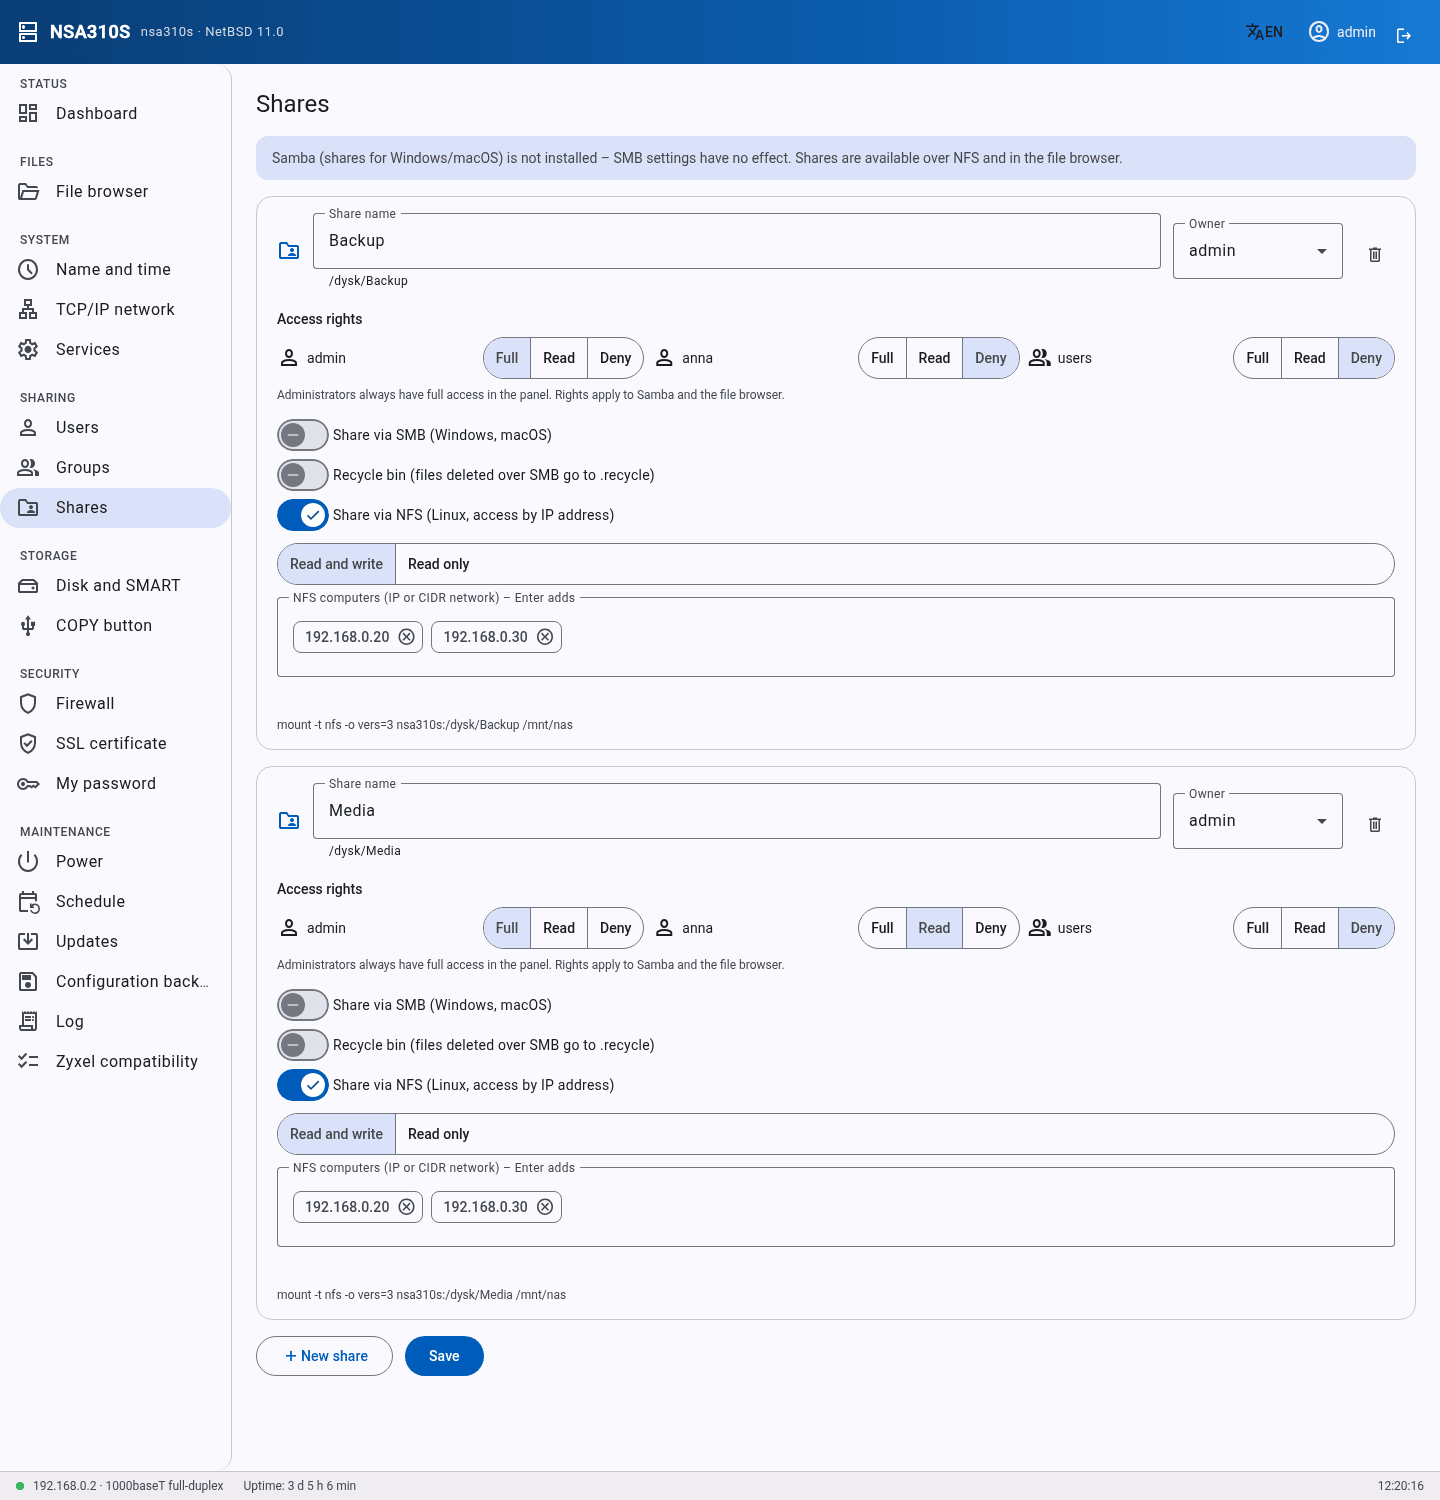
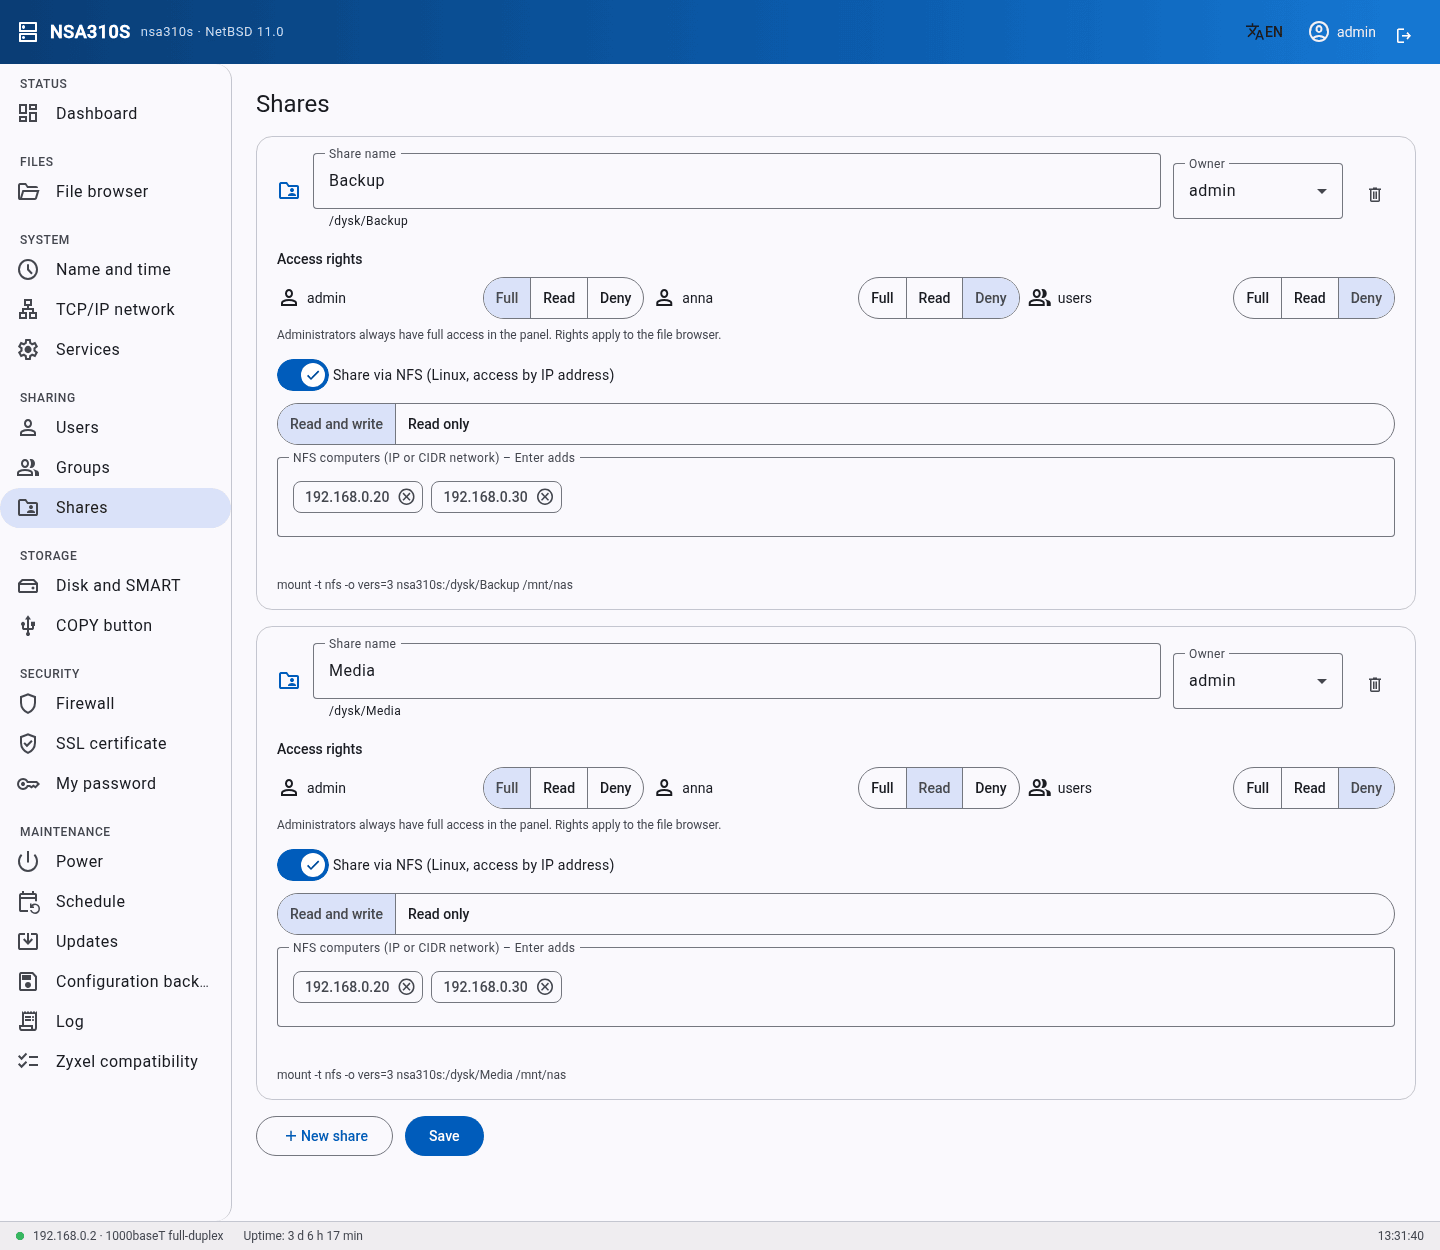
Remove Samba/SMB from the panel: no SMB or recycle-bin options on shares, no smbpasswd, no smb.conf, port 445 closed; robust panel restart in wdroz.sh
Prepared with Claude (Anthropic).

diff --git a/panel/frontend/src/app/i18n-en.ts b/panel/frontend/src/app/i18n-en.ts
@@ -69,7 +69,7 @@ export const EN: Record<string, string> = {
 
   // --- users and groups
   'Typ konta': 'Account type', 'Administrator': 'Administrator', 'Usuń konto': 'Delete account', 'Dodaj użytkownika': 'Add user',
-  'Hasło służy do logowania w panelu (przeglądarka plików) i do udziałów Samby. Administrator ma dostęp do całego panelu i wszystkich udziałów. SSH działa tylko z kluczem.': 'The password is used to log in to the panel (file browser) and to Samba shares. Administrators can access the whole panel and all shares. SSH works with keys only.',
+  'Hasło służy do logowania w panelu (przeglądarka plików). Administrator ma dostęp do całego panelu i wszystkich udziałów. SSH działa tylko z kluczem.': 'The password is used to log in to the panel (file browser). Administrators can access the whole panel and all shares. SSH works with keys only.',
   'Nowy użytkownik': 'New user', 'Nazwa użytkownika': 'User name',
   'Pierwsza litera, potem małe litery, cyfry, _ i -.': 'A letter first, then lowercase letters, digits, _ and -.',
   'Nowe hasło (puste = bez zmiany)': 'New password (empty = unchanged)',
@@ -82,12 +82,9 @@ export const EN: Record<string, string> = {
   'Usunąć grupę {0}?': 'Delete group {0}?',
 
   // --- shares
-  'Samba (udziały dla Windows/macOS) nie jest zainstalowana – ustawienia SMB nie działają. Udziały są dostępne przez NFS i w przeglądarce plików.': 'Samba (shares for Windows/macOS) is not installed – SMB settings have no effect. Shares are available over NFS and in the file browser.',
   'Nazwa udziału': 'Share name', 'Właściciel': 'Owner', 'Usuń udział (pliki zostają na dysku)': 'Delete share (files stay on the disk)',
   'Prawa dostępu': 'Access rights', 'Pełny': 'Full', 'Odczyt': 'Read', 'Brak': 'Deny',
-  'Administratorzy mają zawsze pełny dostęp w panelu. Prawa dotyczą Samby i przeglądarki plików.': 'Administrators always have full access in the panel. Rights apply to Samba and the file browser.',
-  'Udostępniaj przez SMB (Windows, macOS)': 'Share via SMB (Windows, macOS)',
-  'Kosz (usunięte przez SMB pliki trafiają do .recycle)': 'Recycle bin (files deleted over SMB go to .recycle)',
+  'Administratorzy mają zawsze pełny dostęp w panelu. Prawa dotyczą przeglądarki plików.': 'Administrators always have full access in the panel. Rights apply to the file browser.',
   'Udostępniaj przez NFS (Linux, dostęp po adresie IP)': 'Share via NFS (Linux, access by IP address)',
   'Odczyt i zapis': 'Read and write', 'Tylko odczyt': 'Read only',
   'Komputery NFS (IP albo sieć CIDR) – Enter dodaje': 'NFS computers (IP or CIDR network) – Enter adds',
@@ -126,7 +123,7 @@ export const EN: Record<string, string> = {
   // --- firewall
   'Zapora (npf)': 'Firewall (npf)', 'włączona': 'enabled', 'wyłączona': 'disabled', 'Twój komputer': 'Your computer',
   'Wszystko, czego nie ma na listach, jest blokowane. Ping jest zawsze dozwolony.': 'Everything not on the lists is blocked. Ping is always allowed.',
-  'Dostęp do SSH, panelu i Samby': 'Access to SSH, panel and Samba', 'Sieci i adresy – jeden w wierszu': 'Networks and addresses – one per line',
+  'Dostęp do SSH i panelu': 'Access to SSH and the panel', 'Sieci i adresy – jeden w wierszu': 'Networks and addresses – one per line',
   'np. 192.168.0.0/24 albo 192.168.0.20': 'e.g. 192.168.0.0/24 or 192.168.0.20',
   'Zmiana, która odcięłaby Twój komputer, zostanie odrzucona.': 'A change that would lock out your computer is rejected.',
   'Dostęp do NFS': 'NFS access', 'Lista tworzona automatycznie z adresów NFS w udziałach.': 'Built automatically from NFS addresses in the shares.',
@@ -142,7 +139,7 @@ export const EN: Record<string, string> = {
   'Nowy certyfikat – odśwież stronę za kilka sekund': 'New certificate – refresh the page in a few seconds',
   'Zmiana hasła': 'Change password', 'Obecne hasło': 'Current password', 'Nowe hasło (min. 8 znaków)': 'New password (min. 8 characters)',
   'Powtórz nowe hasło': 'Repeat new password', 'Hasła się różnią': 'Passwords do not match', 'Zmień hasło': 'Change password',
-  'Hasło dotyczy panelu i udziałów Samby.': 'The password applies to the panel and Samba shares.', 'Hasło zmienione': 'Password changed',
+  'Hasło dotyczy panelu i przeglądarki plików.': 'The password applies to the panel and the file browser.', 'Hasło zmienione': 'Password changed',
   'Obecne hasło jest niepoprawne': 'The current password is wrong',
   'Nowe hasło musi mieć co najmniej 8 znaków': 'The new password must have at least 8 characters',
   'Hasło musi mieć co najmniej 8 znaków': 'The password must have at least 8 characters',
@@ -209,7 +206,7 @@ export const EN: Record<string, string> = {
   'Obciążenie, RAM, dyski, sieć, usługi, diody, temperatura dysku. Brak obrotów wentylatora (steruje nim mikrokontroler płyty) i listy procesów.': 'Load, RAM, disks, network, services, LEDs, disk temperature. No fan speed (controlled by the board microcontroller) and no process list.',
   'Pakiety pkgin z audytem podatności. Firmware Zyxela nie dotyczy NetBSD.': 'pkgin packages with vulnerability audit. Zyxel firmware does not apply to NetBSD.',
   'Server Name (nazwa, grupa robocza)': 'Server Name (name, workgroup)',
-  'Nazwa urządzenia. Grupa robocza Samby: WORKGROUP (stała).': 'Device name. Samba workgroup: WORKGROUP (fixed).',
+  'Nazwa urządzenia.': 'Device name.',
   'Date/Time (ręcznie, NTP, strefa, czas letni)': 'Date/Time (manual, NTP, zone, DST)',
   'NTP, pełna lista stref, automatyczny czas letni. Bez ręcznego ustawiania zegara (NTP jest dokładniejszy).': 'NTP, full time zone list, automatic DST. No manual clock setting (NTP is more accurate).',
   'Volume (RAID0/1, JBOD, skanowanie, naprawa, dyski zewnętrzne)': 'Volume (RAID0/1, JBOD, scan, repair, external disks)',
@@ -231,7 +228,7 @@ export const EN: Record<string, string> = {
   'Konta z hasłem, typ administrator/użytkownik, klucze SSH. Bez limitów miejsca (quota).': 'Accounts with passwords, administrator/user type, SSH keys. No quotas.',
   'Tworzenie, usuwanie, członkowie.': 'Create, delete, members.',
   'Shares (właściciel, prawa Full/Read Only/Deny, kosz, Share Browser)': 'Shares (owner, Full/Read Only/Deny rights, recycle bin, Share Browser)',
-  'Prawa dla użytkowników i grup, właściciel, kosz (Samba), dodatkowo NFS po adresie IP.': 'Rights for users and groups, owner, recycle bin (Samba), plus NFS by IP address.',
+  'Prawa dla użytkowników i grup, właściciel, dodatkowo NFS po adresie IP. Bez SMB i kosza.': 'Rights for users and groups, owner, plus NFS by IP address. No SMB or recycle bin.',
   'Przeglądarka plików dla użytkowników (wysyłanie, pobieranie)': 'File browser for users (upload, download)',
   'Według praw do udziałów; foldery, zmiana nazwy, usuwanie, wysyłanie przeciąganiem.': 'According to share rights; folders, rename, delete, drag-and-drop upload.',
   'Power (usypianie dysku, harmonogram, WOL, po zaniku prądu, UPS)': 'Power (disk standby, schedule, WOL, after power loss, UPS)',

diff --git a/panel/frontend/src/app/strony/udzialy.ts b/panel/frontend/src/app/strony/udzialy.ts
@@ -21,9 +21,6 @@ type Dostep = Prawo | 'brak';
   template: `
     <div class="strona">
       <h1>{{ 'Udziały' | t }}</h1>
-      @if (!samba()) {
-        <div class="info">{{ 'Samba (udziały dla Windows/macOS) nie jest zainstalowana – ustawienia SMB nie działają. Udziały są dostępne przez NFS i w przeglądarce plików.' | t }}</div>
-      }
       @for (u of lista(); track $index; let i = $index) {
         <section class="karta udzial">
           <div class="naglowek">
@@ -56,11 +53,9 @@ type Dostep = Prawo | 'brak';
               </div>
             }
           </div>
-          <p class="podpowiedz">{{ 'Administratorzy mają zawsze pełny dostęp w panelu. Prawa dotyczą Samby i przeglądarki plików.' | t }}</p>
+          <p class="podpowiedz">{{ 'Administratorzy mają zawsze pełny dostęp w panelu. Prawa dotyczą przeglądarki plików.' | t }}</p>
 
           <div class="opcje">
-            <mat-slide-toggle [(ngModel)]="u.smb">{{ 'Udostępniaj przez SMB (Windows, macOS)' | t }}</mat-slide-toggle>
-            <mat-slide-toggle [(ngModel)]="u.kosz">{{ 'Kosz (usunięte przez SMB pliki trafiają do .recycle)' | t }}</mat-slide-toggle>
             <mat-slide-toggle [ngModel]="!!u.nfs" (ngModelChange)="u.nfs = $event ? { tryb: 'rw', klienci: [] } : null">
               {{ 'Udostępniaj przez NFS (Linux, dostęp po adresie IP)' | t }}</mat-slide-toggle>
           </div>
@@ -110,7 +105,6 @@ export class Udzialy implements OnInit {
   protected readonly lista = signal<Udzial[]>([]);
   protected readonly uzytkownicy = signal<Uzytkownik[]>([]);
   protected readonly grupyL = signal<Grupa[]>([]);
-  protected readonly samba = signal(true);
   protected readonly praca = signal(false);
   protected readonly nowe = new Set<Udzial>();
   protected readonly ip = location.hostname;
@@ -126,11 +120,10 @@ export class Udzialy implements OnInit {
   async ngOnInit(): Promise<void> {
     try {
       const [d, u, g] = await Promise.all([
-        this.api.get<{ udzialy: Udzial[]; samba: boolean }>('udzialy'),
+        this.api.get<{ udzialy: Udzial[] }>('udzialy'),
         this.api.get<{ uzytkownicy: Uzytkownik[] }>('uzytkownicy'),
         this.api.get<{ grupy: Grupa[] }>('grupy')]);
       this.lista.set(d.udzialy);
-      this.samba.set(d.samba);
       this.uzytkownicy.set(u.uzytkownicy);
       this.grupyL.set(g.grupy);
     } catch (e) {
@@ -151,7 +144,7 @@ export class Udzialy implements OnInit {
   }
 
   protected dodaj(): void {
-    const u: Udzial = { nazwa: 'Nowy', sciezka: '', wlasciciel: this.api.uzytkownik() || 'admin', kosz: true, smb: true,
+    const u: Udzial = { nazwa: 'Nowy', sciezka: '', wlasciciel: this.api.uzytkownik() || 'admin',
       prawa: [{ typ: 'uzytkownik', nazwa: this.api.uzytkownik() || 'admin', prawo: 'rw' }], nfs: null };
     this.nowe.add(u);
     this.lista.update(l => [...l, u]);
@@ -175,7 +168,7 @@ export class Udzialy implements OnInit {
     if (l.some(u => u.nfs && u.nfs.klienci.length === 0)) { this.kom.ok('Udział z NFS musi mieć co najmniej jeden adres'); return; }
     const w: string[] = [];
     for (const u of l) {
-      w.push(`udzial ${u.nazwa} wlasciciel=${u.wlasciciel} kosz=${u.kosz ? 'tak' : 'nie'} smb=${u.smb ? 'tak' : 'nie'}`);
+      w.push(`udzial ${u.nazwa} wlasciciel=${u.wlasciciel}`);
       if (u.prawa.length) w.push(`prawa ${u.nazwa} ` + u.prawa.map(p => `${p.typ === 'grupa' ? 'g' : 'u'}:${p.nazwa}=${p.prawo}`).join(' '));
       if (u.nfs) w.push(`nfs ${u.nazwa} ${u.nfs.tryb} ${u.nfs.klienci.join(',')}`);
     }

diff --git a/panel/frontend/src/app/strony/zgodnosc.ts b/panel/frontend/src/app/strony/zgodnosc.ts
@@ -17,7 +17,7 @@ const ZYXEL: Grupa[] = [
     { zyxel: 'Firmware/Packages', stan: 'zamiennik', gdzie: 'Aktualizacje', link: '/aktualizacje',
       uwagi: 'Pakiety pkgin z audytem podatności. Firmware Zyxela nie dotyczy NetBSD.' },
     { zyxel: 'Server Name (nazwa, grupa robocza)', stan: 'czesciowo', gdzie: 'Nazwa i czas', link: '/czas',
-      uwagi: 'Nazwa urządzenia. Grupa robocza Samby: WORKGROUP (stała).' },
+      uwagi: 'Nazwa urządzenia.' },
     { zyxel: 'Date/Time (ręcznie, NTP, strefa, czas letni)', stan: 'czesciowo', gdzie: 'Nazwa i czas', link: '/czas',
       uwagi: 'NTP, pełna lista stref, automatyczny czas letni. Bez ręcznego ustawiania zegara (NTP jest dokładniejszy).' },
   ] },
@@ -50,7 +50,7 @@ const ZYXEL: Grupa[] = [
       uwagi: 'Konta z hasłem, typ administrator/użytkownik, klucze SSH. Bez limitów miejsca (quota).' },
     { zyxel: 'Groups', stan: 'jest', gdzie: 'Grupy', link: '/grupy', uwagi: 'Tworzenie, usuwanie, członkowie.' },
     { zyxel: 'Shares (właściciel, prawa Full/Read Only/Deny, kosz, Share Browser)', stan: 'jest', gdzie: 'Udziały', link: '/udzialy',
-      uwagi: 'Prawa dla użytkowników i grup, właściciel, kosz (Samba), dodatkowo NFS po adresie IP.' },
+      uwagi: 'Prawa dla użytkowników i grup, właściciel, dodatkowo NFS po adresie IP. Bez SMB i kosza.' },
     { zyxel: 'Przeglądarka plików dla użytkowników (wysyłanie, pobieranie)', stan: 'jest', gdzie: 'Przeglądarka plików', link: '/pliki',
       uwagi: 'Według praw do udziałów; foldery, zmiana nazwy, usuwanie, wysyłanie przeciąganiem.' },
   ] },

diff --git a/panel/frontend/src/app/strony/uzytkownicy.ts b/panel/frontend/src/app/strony/uzytkownicy.ts
@@ -40,7 +40,7 @@ import { I18n, TPipe } from '../i18n';
           <tr mat-row *matRowDef="let r; columns: kolumny"></tr>
         </table>
         <div class="przyciski"><button mat-stroked-button (click)="nowy()"><span class="material-symbols-outlined">person_add</span> {{ 'Dodaj użytkownika' | t }}</button></div>
-        <p class="podpowiedz">{{ 'Hasło służy do logowania w panelu (przeglądarka plików) i do udziałów Samby. Administrator ma dostęp do całego panelu i wszystkich udziałów. SSH działa tylko z kluczem.' | t }}</p>
+        <p class="podpowiedz">{{ 'Hasło służy do logowania w panelu (przeglądarka plików). Administrator ma dostęp do całego panelu i wszystkich udziałów. SSH działa tylko z kluczem.' | t }}</p>
       </section>
 
       @if (edycja(); as e) {

diff --git a/panel/frontend/src/app/strony/zapora.ts b/panel/frontend/src/app/strony/zapora.ts
@@ -26,7 +26,7 @@ interface Stan { aktywna: boolean; dom: string[]; nfs: string[]; klient: string;
           </section>
 
           <section class="karta">
-            <h2><span class="material-symbols-outlined">admin_panel_settings</span>{{ 'Dostęp do SSH, panelu i Samby' | t }}</h2>
+            <h2><span class="material-symbols-outlined">admin_panel_settings</span>{{ 'Dostęp do SSH i panelu' | t }}</h2>
             <mat-form-field appearance="outline" class="pelne">
               <mat-label>{{ 'Sieci i adresy – jeden w wierszu' | t }}</mat-label>
               <textarea matInput class="mono" rows="5" [(ngModel)]="dom"></textarea>

diff --git a/panel/frontend/src/app/strony/haslo.ts b/panel/frontend/src/app/strony/haslo.ts
@@ -31,7 +31,7 @@ import { TPipe } from '../i18n';
           <button mat-flat-button (click)="zmien()" [disabled]="praca() || !stare || nowe.length < 8 || nowe !== powtorz">
             {{ 'Zmień hasło' | t }}</button>
         </div>
-        <p class="podpowiedz">{{ 'Hasło dotyczy panelu i udziałów Samby.' | t }}</p>
+        <p class="podpowiedz">{{ 'Hasło dotyczy panelu i przeglądarki plików.' | t }}</p>
       </section>
     </div>`,
   styles: `.waska { max-width: 480px; }`,

diff --git a/panel/frontend/src/app/api.ts b/panel/frontend/src/app/api.ts
@@ -34,7 +34,7 @@ export interface Smart {
 export type Prawo = 'rw' | 'ro';
 export interface PrawoUdzialu { typ: 'uzytkownik' | 'grupa'; nazwa: string; prawo: Prawo; }
 export interface Udzial {
-  nazwa: string; sciezka: string; wlasciciel: string; kosz: boolean; smb: boolean;
+  nazwa: string; sciezka: string; wlasciciel: string;
   prawa: PrawoUdzialu[]; nfs?: { tryb: Prawo; klienci: string[] } | null;
 }
 export interface Grupa { nazwa: string; gid: number; czlonkowie: string[]; }

diff --git a/panel/frontend/src/app/strony/uslugi.ts b/panel/frontend/src/app/strony/uslugi.ts
@@ -8,7 +8,6 @@ import { TPipe } from '../i18n';
 
 const OPISY: Record<string, { nazwa: string; opis: string }> = {
   nfs: { nazwa: 'NFS', opis: 'udziały plików dla Linuksa (rpcbind, mountd, nfsd)' },
-  samba: { nazwa: 'Samba (SMB)', opis: 'udziały plików dla Windows i macOS' },
   ntpd: { nazwa: 'NTP', opis: 'synchronizacja czasu' },
   sshd: { nazwa: 'SSH', opis: 'zdalne logowanie (tylko restart)' },
   powerd: { nazwa: 'powerd', opis: 'obsługa przycisków power/reset/copy' },

diff --git a/panel/frontend/src/app/strony/pulpit.ts b/panel/frontend/src/app/strony/pulpit.ts
@@ -23,7 +23,7 @@ const BLEDY = [
 ];
 
 const USLUGI: Record<string, string> = {
-  sshd: 'SSH', nfsd: 'NFS', mountd: 'NFS mountd', ntpd: 'Czas (NTP)', powerd: 'Przyciski (powerd)', smbd: 'Samba',
+  sshd: 'SSH', nfsd: 'NFS', mountd: 'NFS mountd', ntpd: 'Czas (NTP)', powerd: 'Przyciski (powerd)',
 };
 
 @Component({
